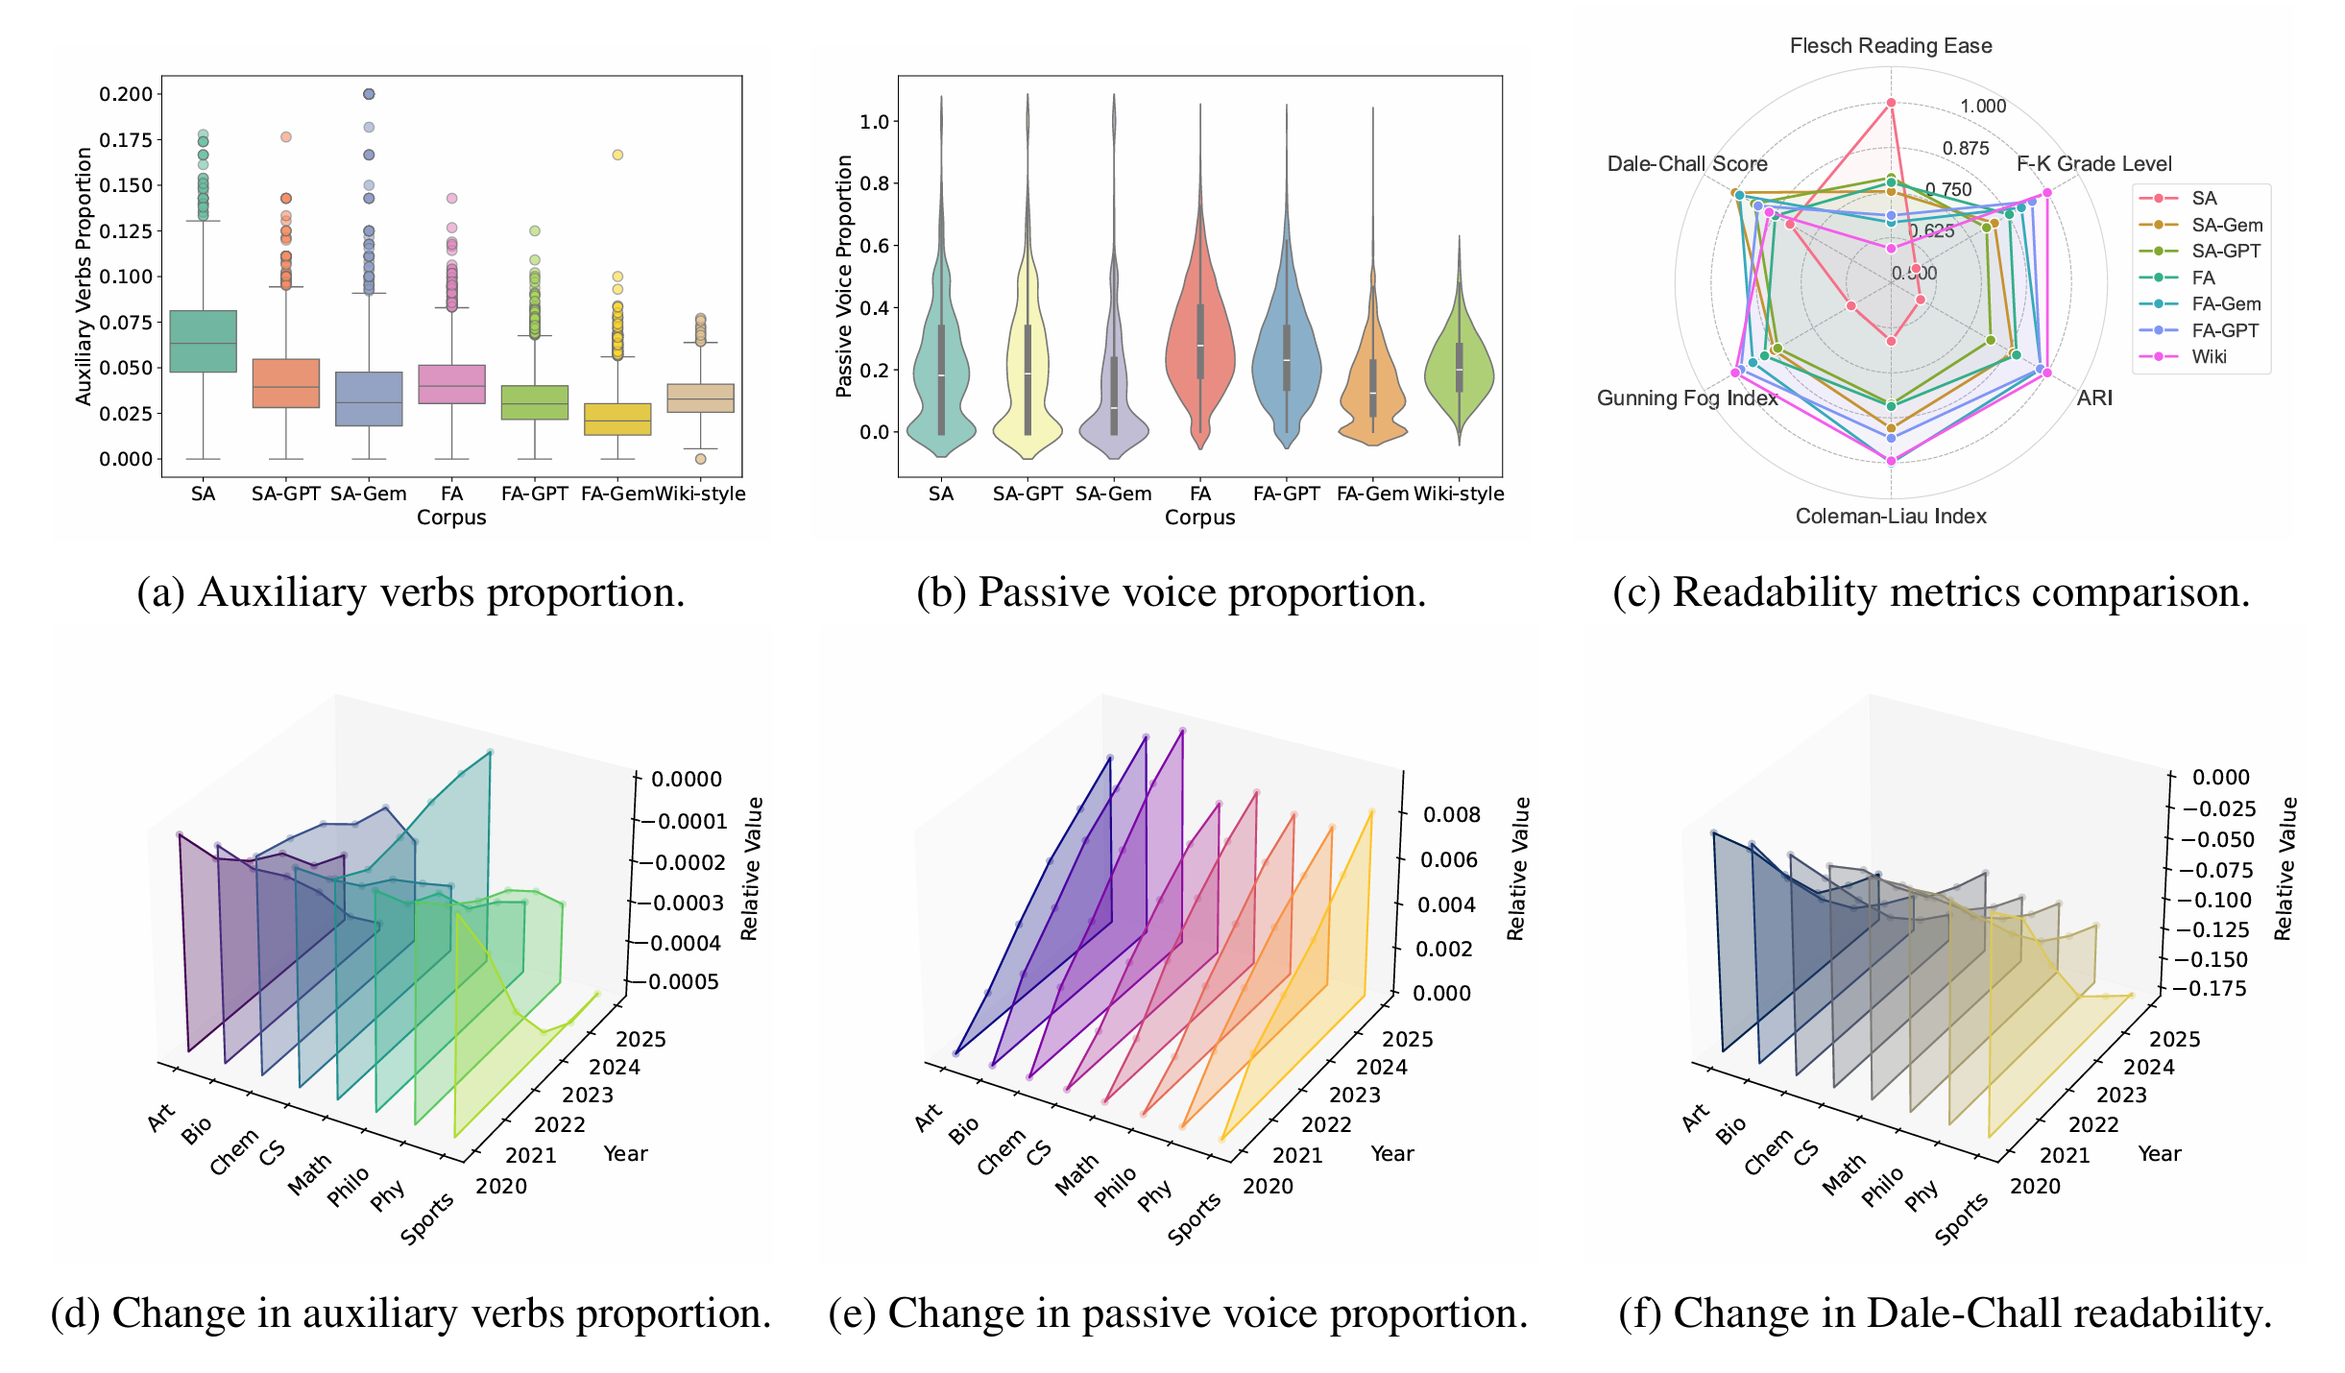
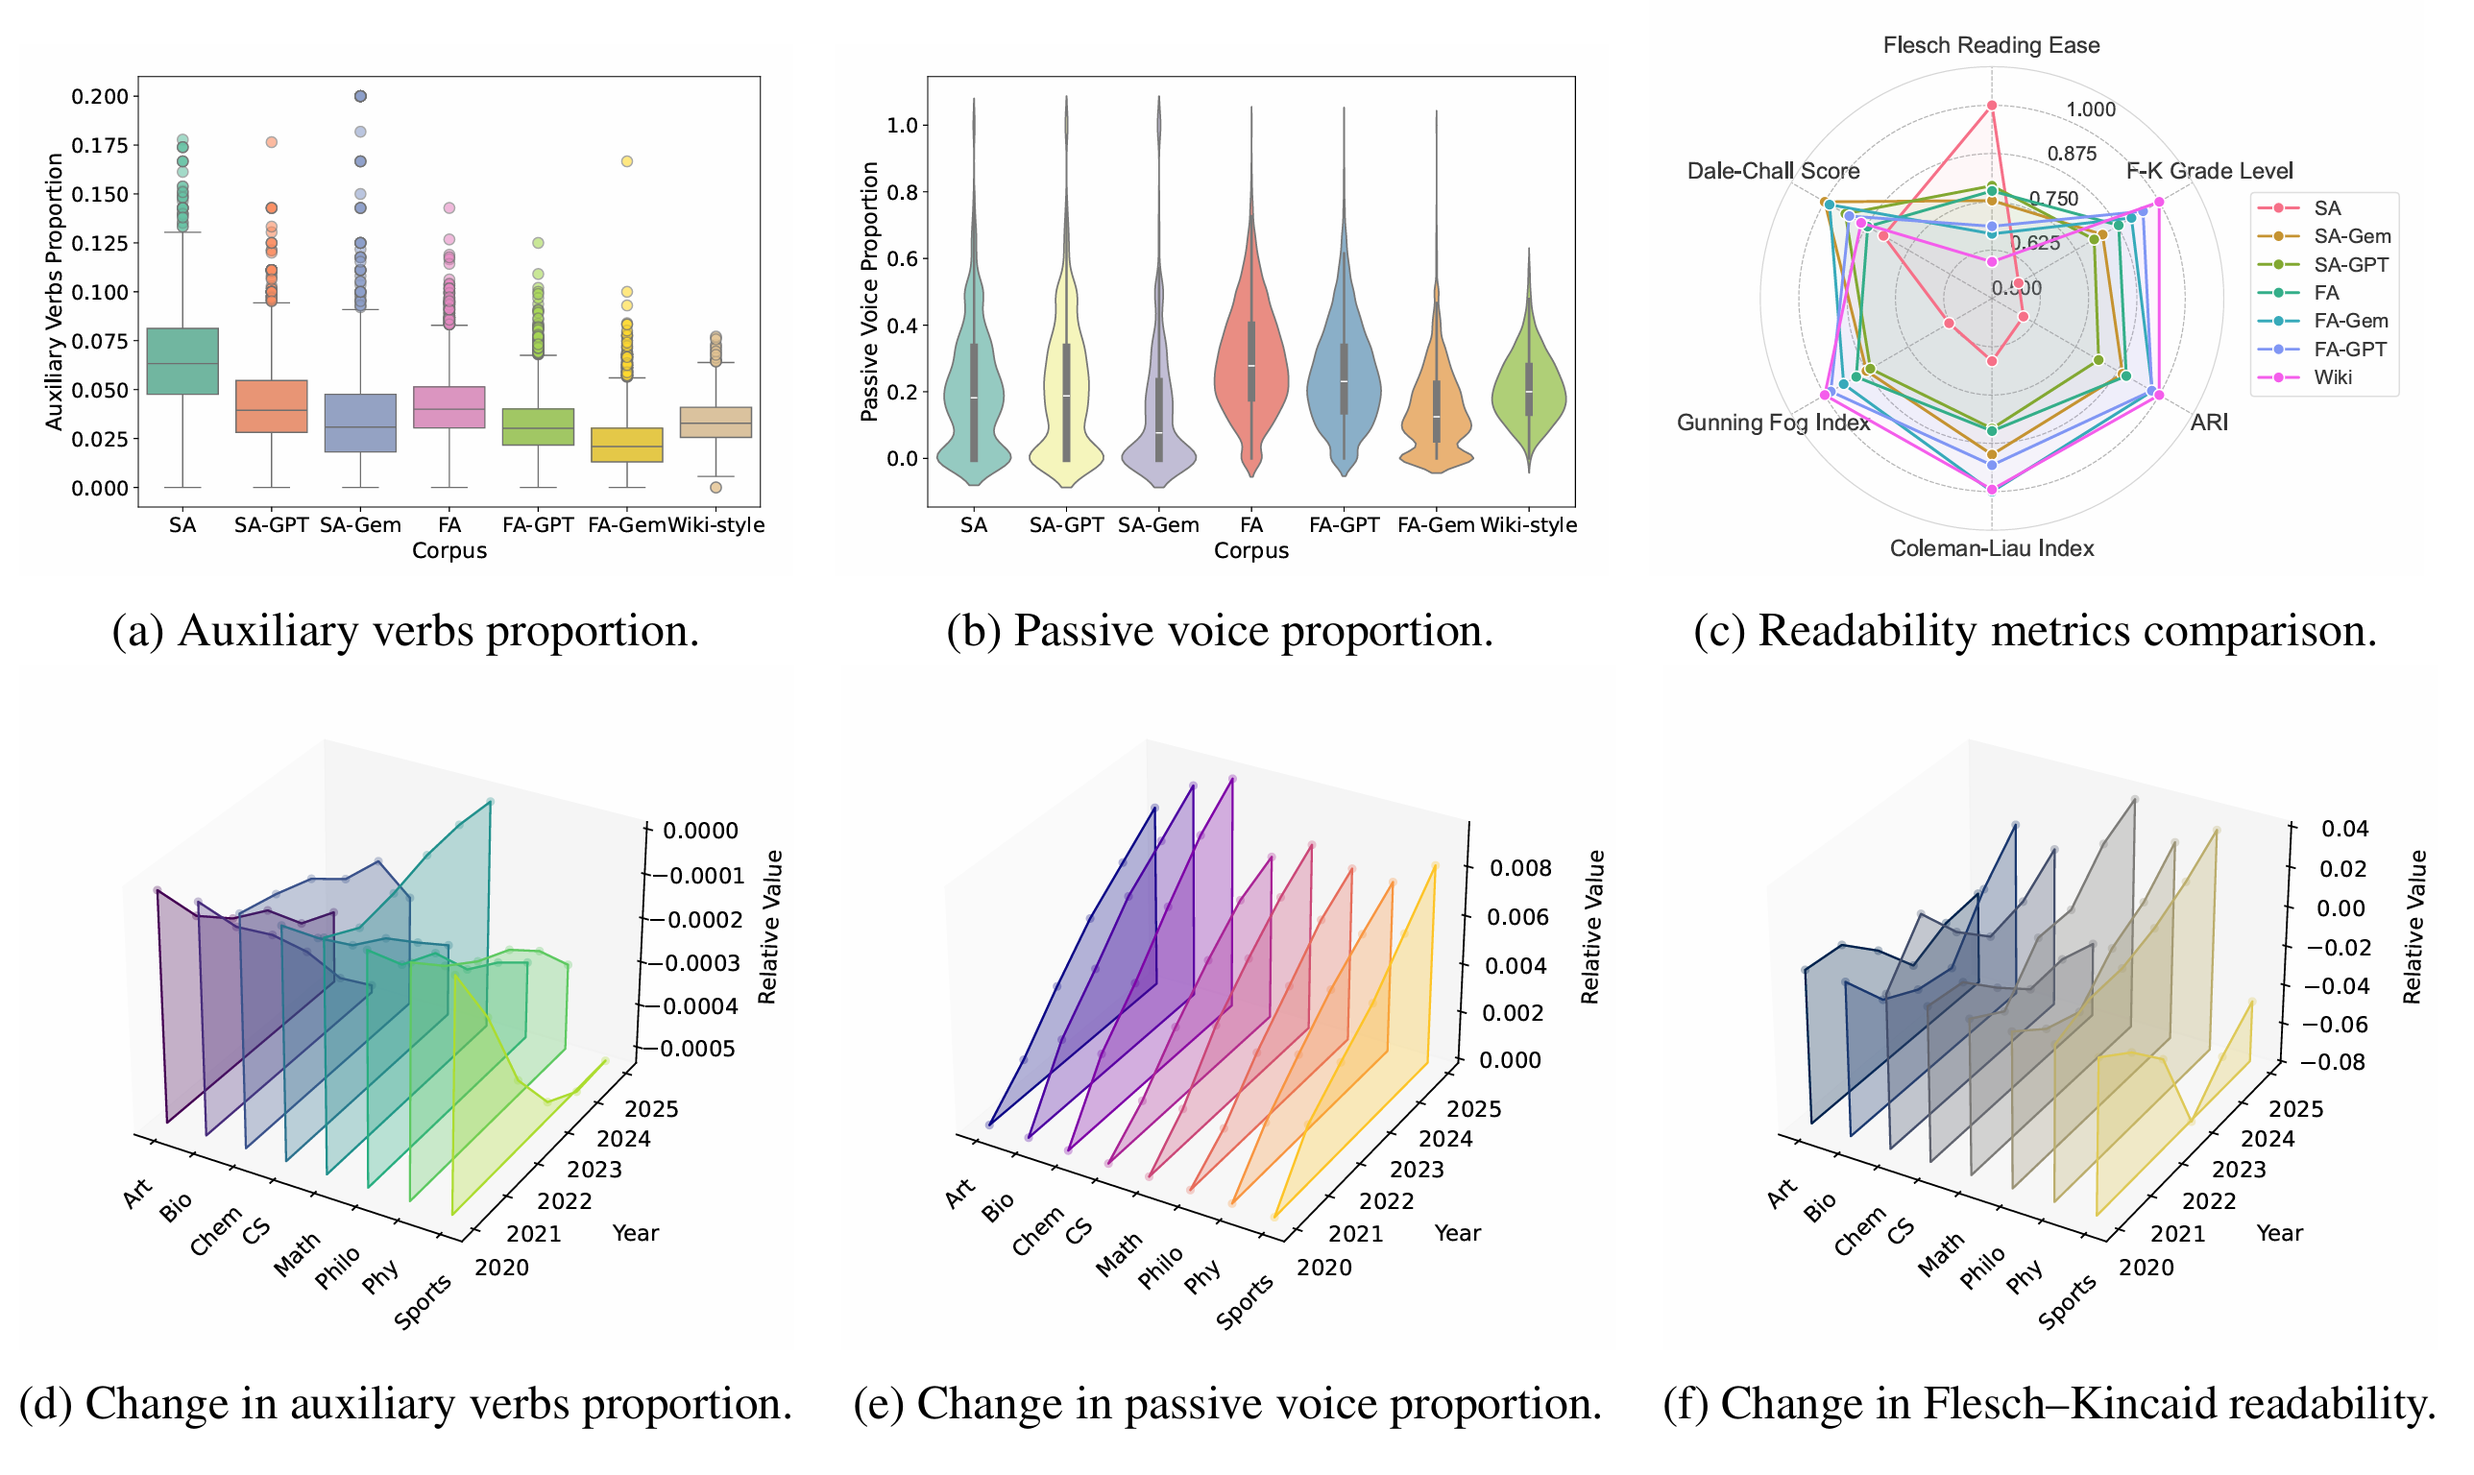
update finding

diff --git a/README.md b/README.md
@@ -103,7 +103,7 @@ Beyond word frequency, we investigate the current and future impact of LLMs on W
 </div>
 
 > [!IMPORTANT]
-> The trends in several linguistic metrics of these Wikipedia pages show a slight move towards the characteristics of LLM outputs, although some remain unchanged or even move in the opposite direction.
+> The trends of changes in Wikipedia articles are largely consistent with the preferences of LLMs under most metrics.
 
 <pre>
 ├── Calculate_Readability.py     // Get Page Views  
